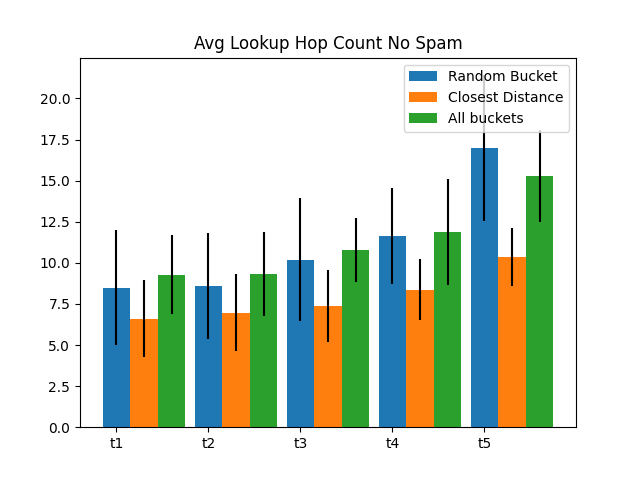
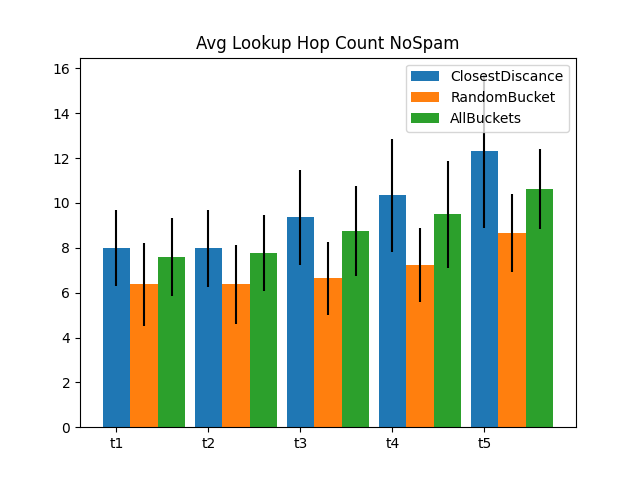
more graphs

diff --git a/service-discovery/python/analyze.py b/service-discovery/python/analyze.py
@@ -398,6 +398,7 @@ def analyzeOperations(dirs):
     total_discovered_list = []
 
     i=0
+    labels=['ClosestDiscance','RandomBucket','AllBuckets']
     for log_dir in dirs:
 #        print(log_dir)
         df = pd.read_csv(log_dir + '/operations.csv')
@@ -421,11 +422,11 @@ def analyzeOperations(dirs):
 
 #        print(np.arange(len(mean.keys())))
 #        print(mean.values())
-        ax2.bar(np.arange(len(mean.keys()))+margin, mean.values(),yerr=err.values(),width=width,label=log_dir)
+        ax2.bar(np.arange(len(mean.keys()))+margin, mean.values(),yerr=err.values(),width=width,label=labels[i])
         i = i+1
 #        print(df['returned_hops'].mean())
 #        ax2.bar(log_dir, df['returned_hops'].mean(), yerr=df['returned_hops'].std(), capsize=10)
-        ax2.set_title("Avg Lookup Hop Count")
+        ax2.set_title("Avg Lookup Hop Count Spam")
         ax2.set_xticks(range(len(mean.keys())))
         ax2.set_xticklabels(mean.keys())
         print(df.query("type == 'LookupOperation' or type == 'LookupTicketOperation'")['malicious'].sum())
@@ -1016,13 +1017,13 @@ print('Plots will be saved in ', OUTDIR);
 #analyzeMessages(sys.argv[1:])
 #analyzeRegistrations(sys.argv[1:])
 #analyzeRegistrations2(sys.argv[1:])
-#analyzeOperations(sys.argv[1:])
+analyzeOperations(sys.argv[1:])
 #analyzeRegistrantDistribution(sys.argv[1:])
 #analyzeRegistrarDistribution(sys.argv[1:])
 #analyzeEclipsedNodesOverTime(sys.argv[1:])
 #analyzeActiveRegistrations(sys.argv[1:])
 #analyzeActiveRegistrationsMalicious(sys.argv[1:])
-analyzeRegistrationTime(sys.argv[1:])
+#analyzeRegistrationTime(sys.argv[1:])
 #analyzeStorageUtilisation(sys.argv[1:])
 #analyzeWaitingTimes(sys.argv[1:])
 #analyzeNumberOfMessages(sys.argv[1:])
